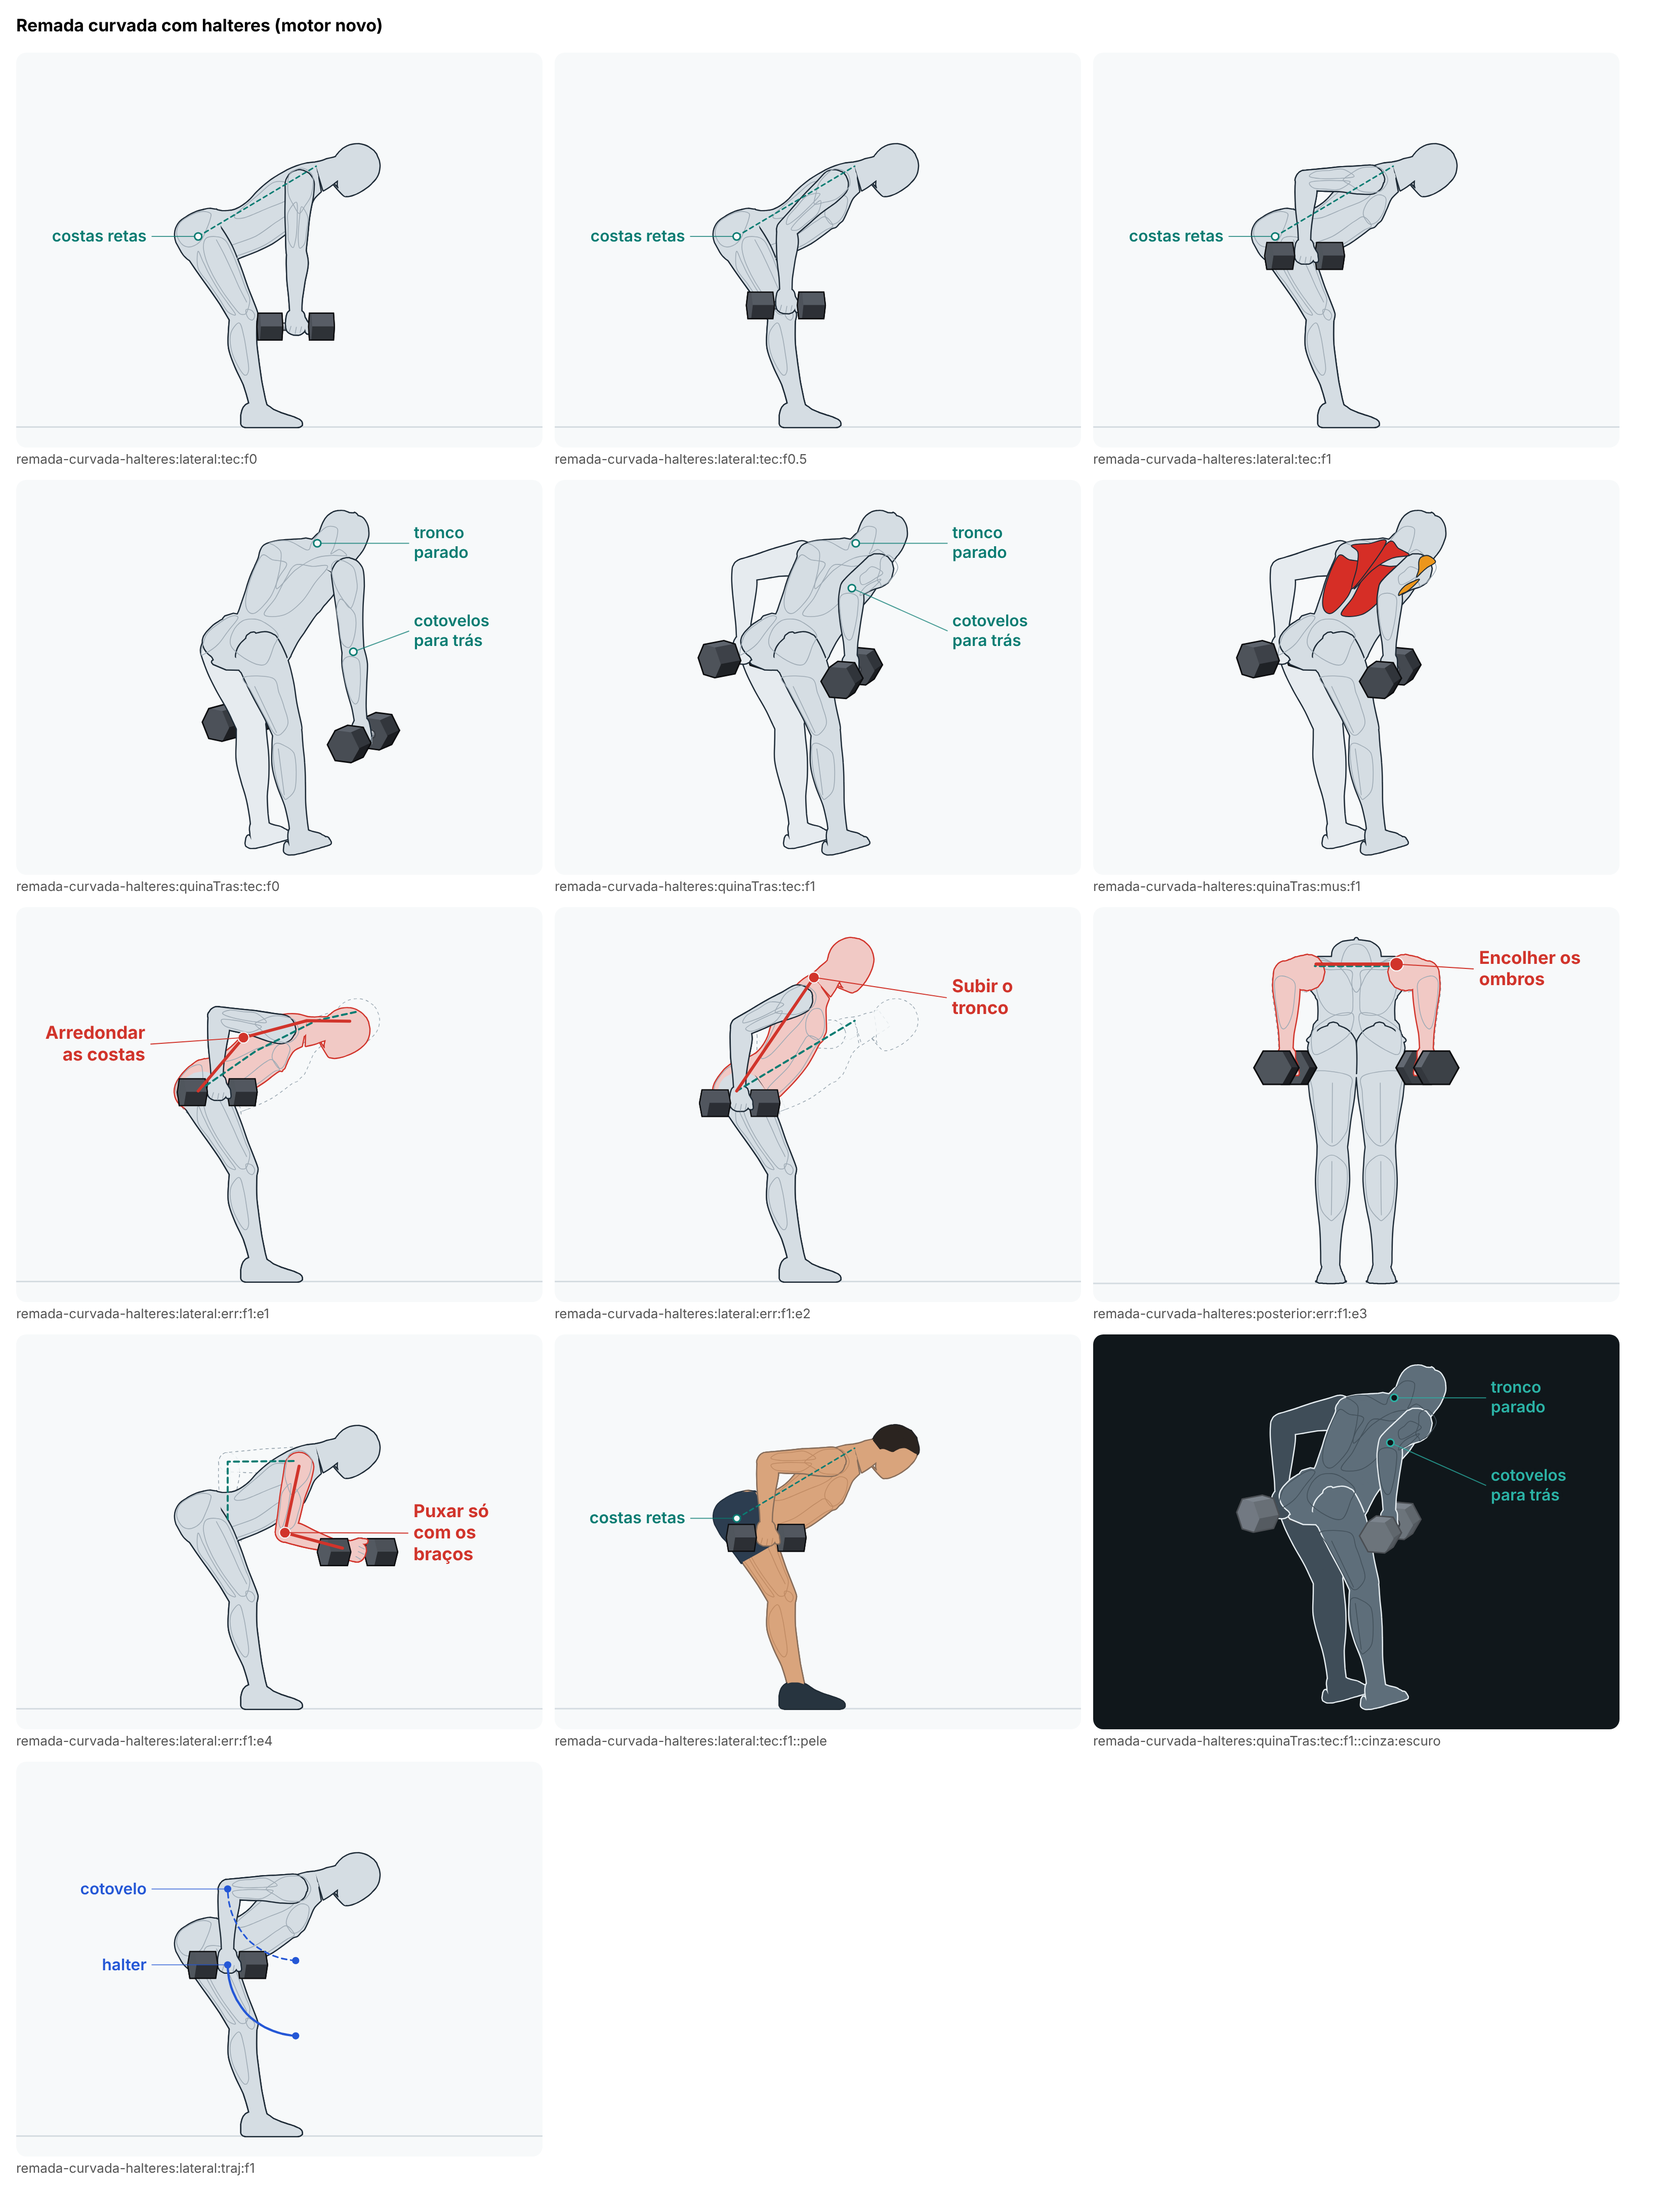
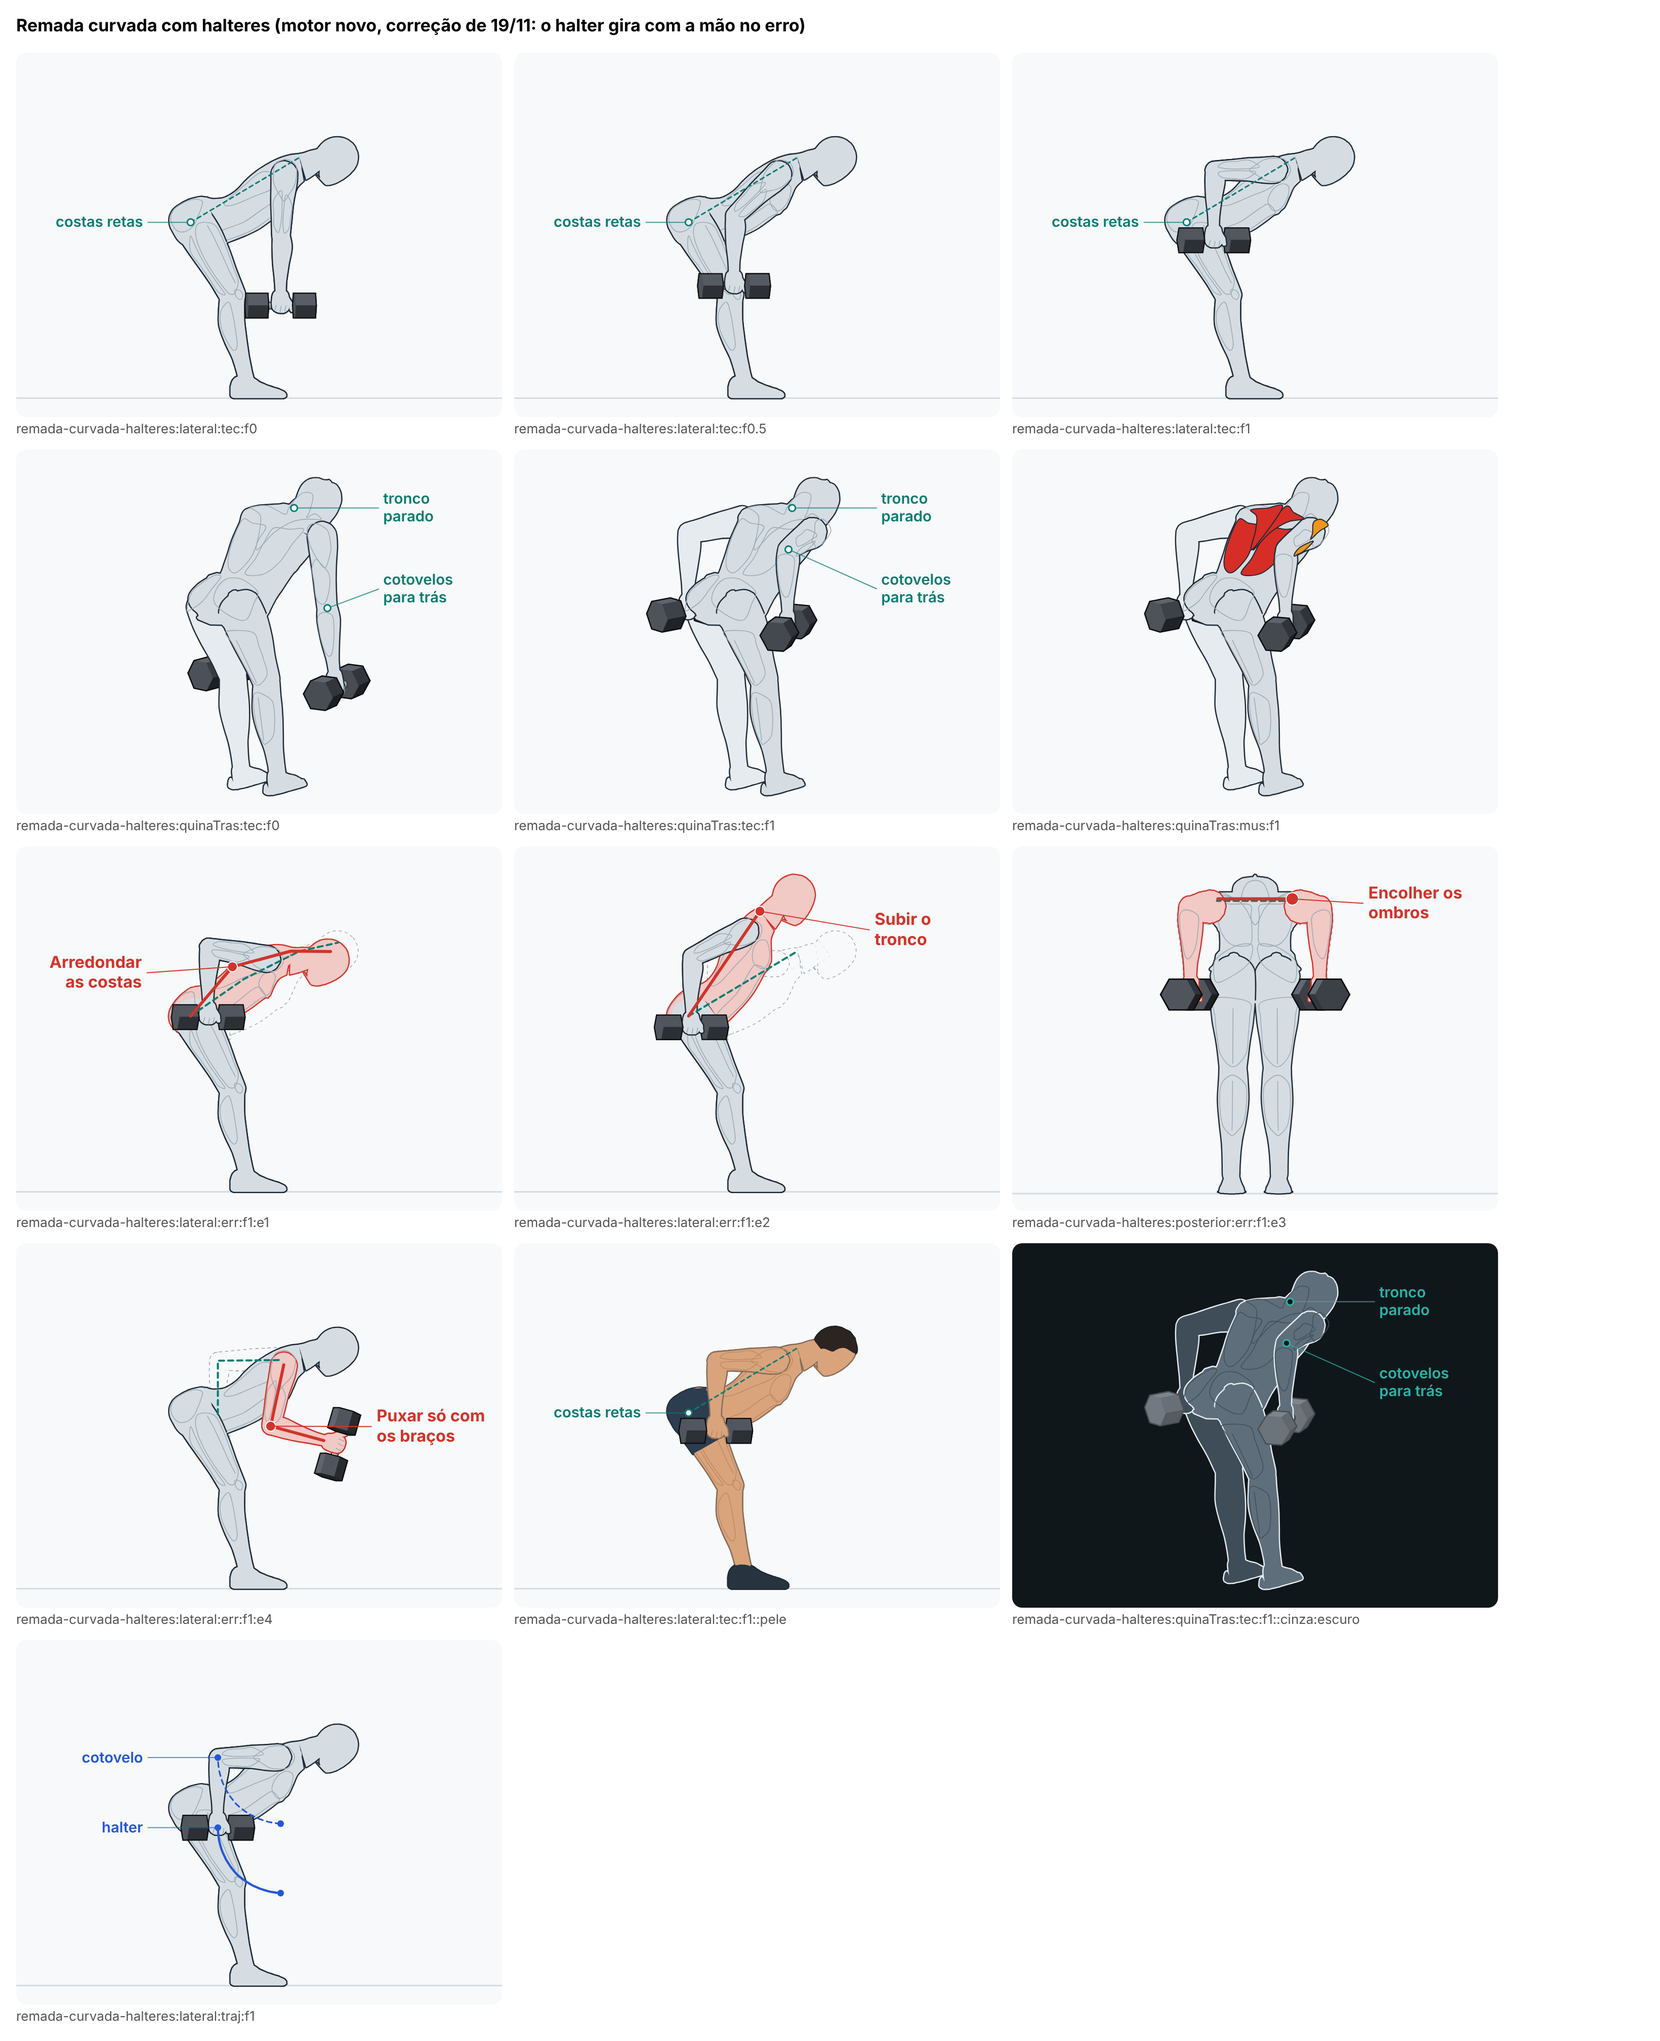
Gira o halter com a mão no erro "só com os braços" da remada curvada
No erro, o antebraço dobra como numa rosca e o halter deitado entrava 2,2 cm no
antebraço direito; agora ele gira com a mão (opção halterGiraComAMao do núcleo).
O ciclo e os outros erros não mudam. A ficha liga peso-fora-do-corpo.

Claude-Session: https://claude.ai/code/session_01YRzts8DBGbsca9onebcMt1

diff --git a/src/engine/novo/exercicios/remada-curvada-halteres.ts b/src/engine/novo/exercicios/remada-curvada-halteres.ts
@@ -37,7 +37,7 @@ function base(corpo: Corpo): BaseDaRemada {
   return { tronco: D.e.pose, pernas: { R: pe(-1), L: pe(1) }, prims: [chao(-70, 70, -100, 100)], pecas: [], marcas: {} };
 }
 
-const R = criarRemada(ficha, { bracos: 'dois', carga: 'halter', base, erros: { e1: 'arredondar', e2: 'subir', e3: 'encolher', e4: 'soBracos' } });
+const R = criarRemada(ficha, { bracos: 'dois', carga: 'halter', base, erros: { e1: 'arredondar', e2: 'subir', e3: 'encolher', e4: 'soBracos' }, halterGiraComAMao: true });
 
 export const remadaCurvadaHalteres: Exercicio = {
   ficha: R.ficha,

diff --git a/docs/revisoes/animacao-nova/lote-4/remada-curvada-halteres.md b/docs/revisoes/animacao-nova/lote-4/remada-curvada-halteres.md
@@ -52,3 +52,21 @@ Os halteres não atravessam as pernas nos erros (no `e2`, o mais perto: 0,5 cm d
 ## O que não ficou bom
 
 - Nada que eu tenha visto nos quadros grandes. No erro "encolher os ombros" de trás, os braços puxados aparecem quase na vertical (o braço vai para trás, na direção de quem olha); o que se lê é a linha dos ombros subindo, que é o erro.
+
+## Correção de 19/11 (halter dentro do corpo)
+
+Depois do aviso do Gustavo na remada sem banco ("o halter tá puxando pra dentro do próprio corpo"), medi todas as aprovadas com peso livre com a regra nova `peso-fora-do-corpo` (as cabeças do halter contra a superfície do corpo, no ciclo e em cada erro em 9 instantes). Nesta, **no erro "Puxar só com os braços"** (no fim), o antebraço dobra 75° para a frente, como numa rosca, mas o halter ficava sempre deitado: a cabeça de trás entrava **2,2 cm no antebraço direito**. A regra de antes (`carga-livre-do-corpo-e-do-banco`) não via, porque mede só o ciclo.
+
+**A mudança.** Opção nova do núcleo `exercicios/remada.ts`, `halterGiraComAMao` (aditiva; desligada, nada muda): no erro "só com os braços", o halter gira com a mão, com o cabo atravessado na palma, como numa rosca martelo. O ciclo e os outros três erros não mudam (medido: 0 cm de diferença na mão, no cotovelo e nas cabeças do halter, em 21 instantes); o preparo muda só no enquadramento de lado, que conta a pose do erro.
+
+| medido (homem) | antes | depois |
+|---|---|---|
+| a cabeça do halter entra no corpo (ciclo e erros) | 2,2 cm (antebraço direito, erro "Puxar só com os braços", fim) | 0 cm |
+| pintura de lado, braço direito × halter, no mesmo erro | −2,8 cm (ordem errada) | não se cruzam mais |
+
+A conferência automática dá **0 falhas e 1 aviso** (o de antes). A ficha liga `peso-fora-do-corpo`. O antes e depois está em `correcao-das-antigas/remada-curvada-halteres-halter.png`; os quadros grandes foram regravados (`quadros/remada-curvada-halteres.png`).
+
+**O que ainda não ficou bom.**
+- De três quartos de trás, a perna esquerda esconde um pedaço do halter esquerdo e é pintada antes dele (folga de pintura de −2,1 cm, medida pela regra `remada-carga-pintada-no-lugar`, que não liguei nesta ficha). Já era assim; não corrigi, porque não é o peso dentro do corpo.
+- No erro, o halter fica quase em pé ao lado do punho (o antebraço quase deitado): é o que uma rosca martelo faz, mas lê-se diferente do quadro de antes, e o rótulo do erro fica perto da cabeça de cima do halter.
+- A mão termina 13,1 cm à frente do centro do quadril e 8,6 cm abaixo dele (80,6% do caminho do ombro ao quadril). É a remada com o tronco a 63°, em que a ficha pede "perto do quadril"; não mudei.
